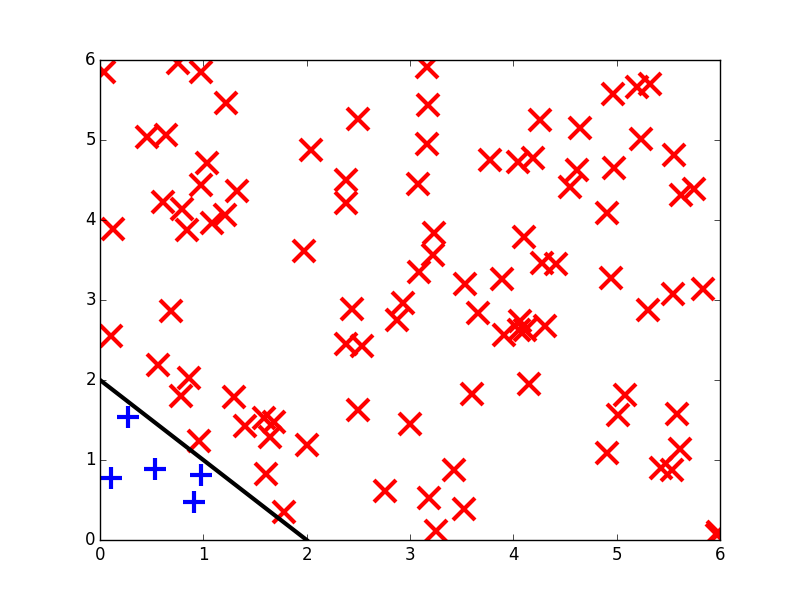
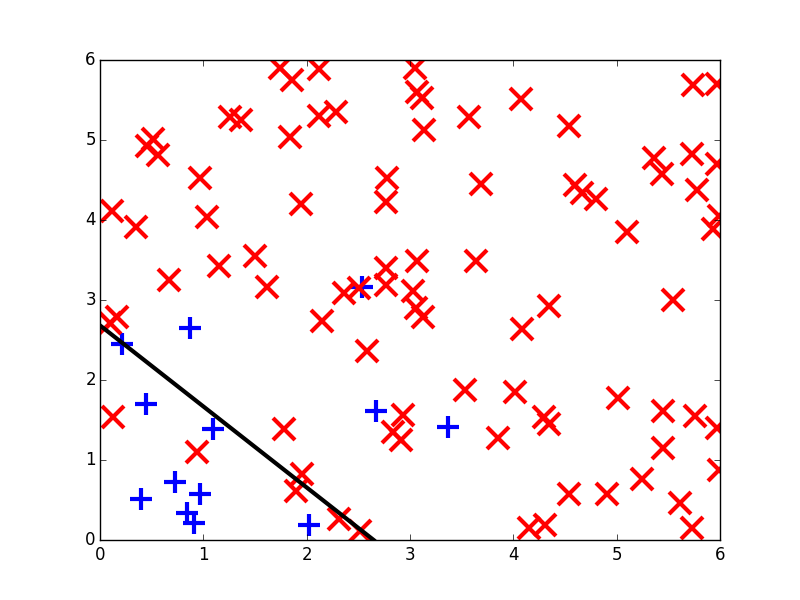
f

diff --git a/project/src/test.py b/project/src/test.py
@@ -179,5 +179,104 @@ def scatter_points3(s):
 
     plt.savefig("../figure/test_a.png")
 
+def scatter_pointsR(s):
+    min=0
+    max=6
+    seed(s)
+    num=100
+
+    can=[]
+    y=[]
+
+    x_p = []
+    x_n = []
+    y_p = []
+    y_n = []
+
+    for i in xrange(num):
+        tmp=[random()*max,random()*max]
+        can.append(tmp)
+        if random()<np.exp(-0.8*sum(tmp)+1):
+            y.append(1)
+            x_p.append(tmp[0])
+            y_p.append(tmp[1])
+        else:
+            y.append(0)
+            x_n.append(tmp[0])
+            y_n.append(tmp[1])
+
+
+
+    clf=svm.SVC(kernel='linear', probability=True)
+
+    clf.fit(can, y)
+    w=clf.coef_[0]
+    b=clf.intercept_[0]
+    p1=-b/w[0]
+    p2=-b/w[1]
+
+    poses = np.where(np.array(y) == 1)[0]
+    negs = np.where(np.array(y) == 0)[0]
+    train_dist = clf.decision_function(np.array(can)[negs])
+    negs_sel = np.argsort(np.abs(train_dist))[::-1][:len(poses)]
+    sample = poses.tolist() + negs[negs_sel].tolist()
+    clf.fit(np.array(can)[sample],np.array(y)[sample])
+
+    ww=clf.coef_[0]
+    bb=clf.intercept_
+    pp1=-bb/ww[0]
+    pp2=-bb/ww[1]
+
+    x_nn=[x_n[i] for i in negs_sel]
+    y_nn=[y_n[i] for i in negs_sel]
+
+    plt.figure(1)
+    plt.scatter(x_p,y_p,marker='+', s=250, edgecolors='blue', linewidths=3)
+    plt.scatter(x_n,y_n,marker='x', s=250, edgecolors='red', linewidths=3)
+    plt.plot([0,p1],[p2,0],color='black', linewidth=3)
+    plt.xlim([min,max])
+    plt.ylim([min,max])
+
+    plt.savefig("../figure/train.png")
+
+    plt.figure(2)
+    plt.scatter(x_p,y_p,marker='+', s=250, edgecolors='blue', linewidths=3)
+    plt.scatter(x_nn,y_nn,marker='x', s=250, edgecolors='red', linewidths=3)
+    plt.plot([0,pp1],[pp2,0],color='black', linewidth=3)
+
+    plt.xlim([min,max])
+    plt.ylim([min,max])
+
+    plt.savefig("../figure/train_a.png")
+
+
+    x_nt=[]
+    y_nt=[]
+    for i in xrange(num):
+        tmp=[random()*max,random()*max]
+        x_nt.append(tmp[0])
+        y_nt.append(tmp[1])
+
+
+    plt.figure(3)
+    plt.scatter(x_nt,y_nt,marker='.', s=250, color='green', linewidths=3)
+    plt.plot([0,p1],[p2,0],color='black', linewidth=3)
+
+    plt.xlim([min,max])
+    plt.ylim([min,max])
+
+    plt.savefig("../figure/test.png")
+
+    plt.figure(4)
+    plt.scatter(x_nt,y_nt,marker='.', s=250, color='green', linewidths=3)
+    plt.plot([0,pp1],[pp2,0],color='black', linewidth=3)
+
+    plt.xlim([min,max])
+    plt.ylim([min,max])
+
+    plt.savefig("../figure/test_a.png")
+
+
+
 if __name__ == "__main__":
     eval(cmd())
